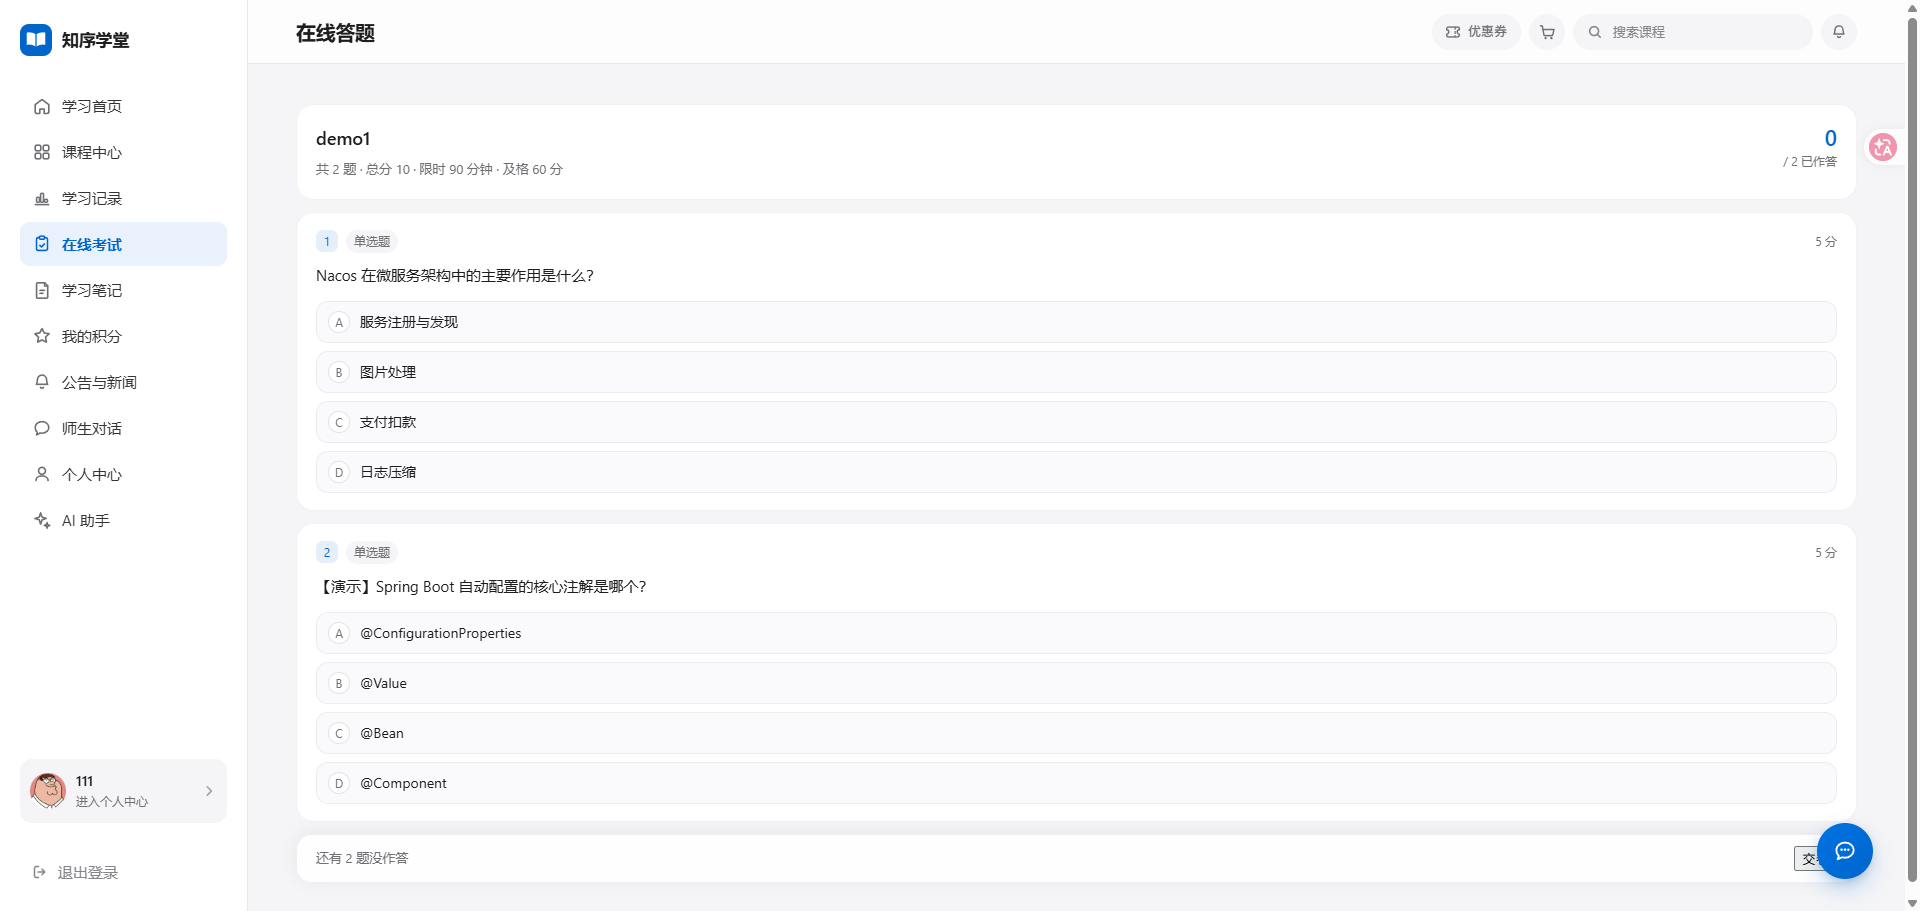
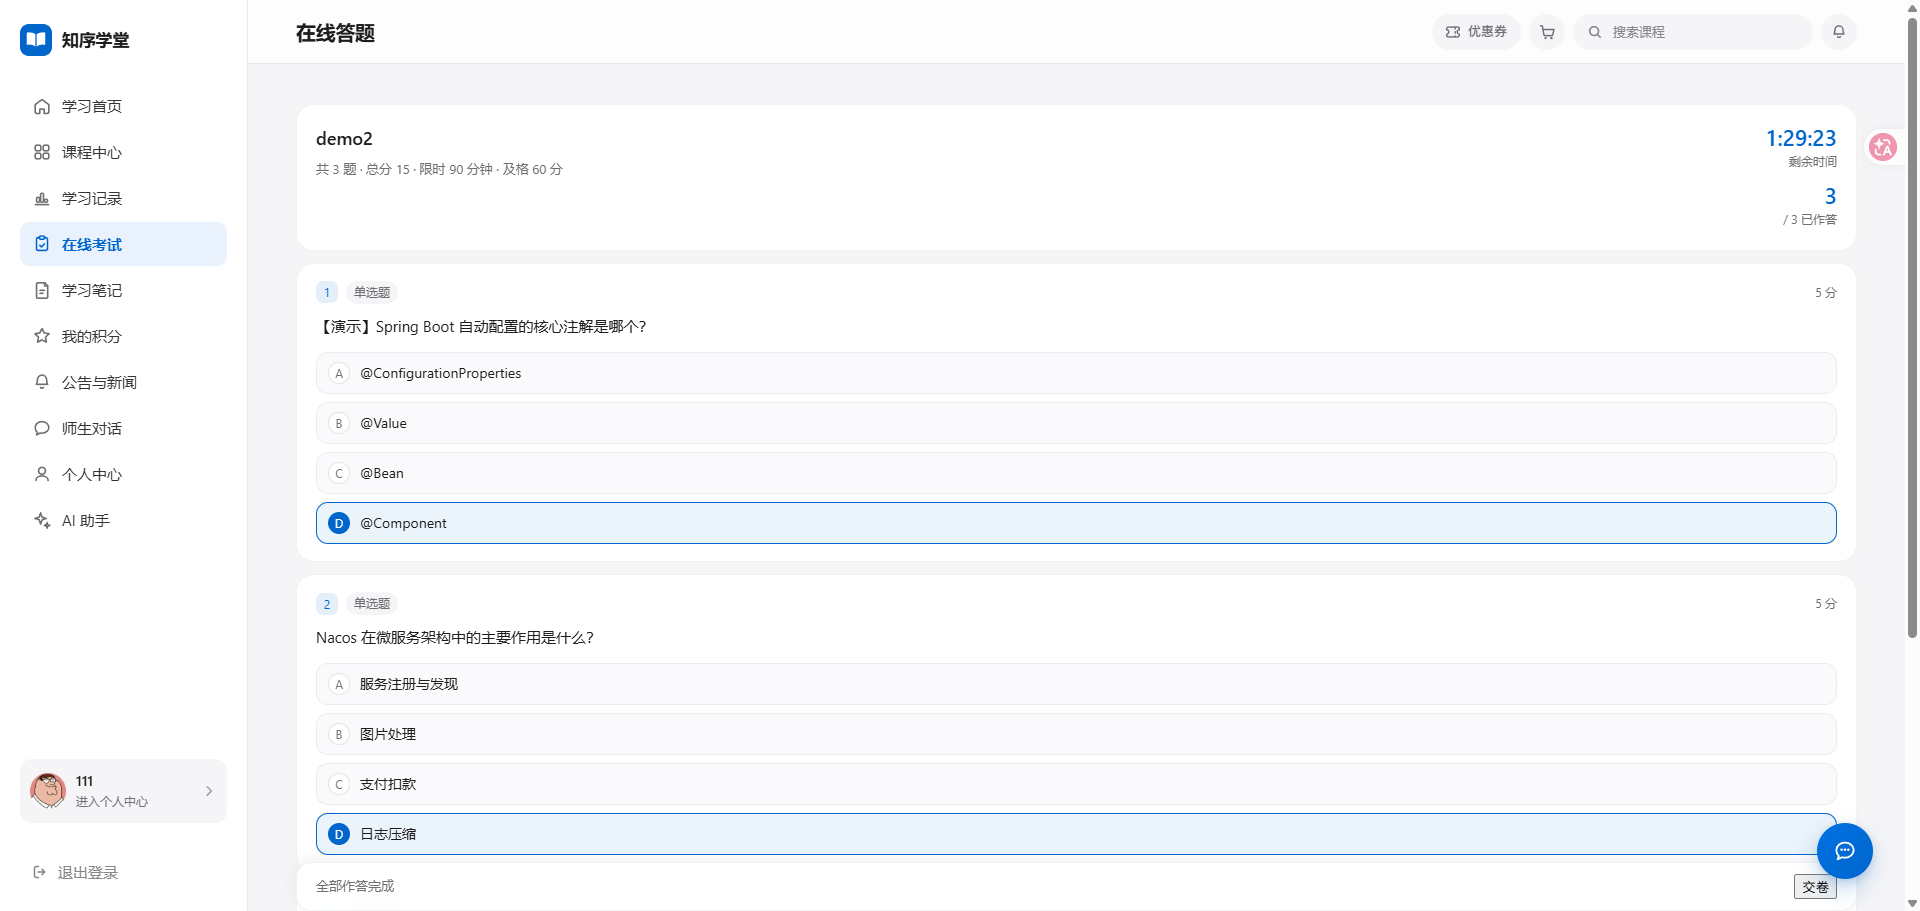
docs: 更新 student-exam 截图（含倒计时）+ 清理已过时的说明
- student-exam.png 换成拍到了倒计时的新图（demo2 · 3/3 已作答 · 右上角剩余时间 1:29:23）
- README 图注改为「右上角倒计时 + 已作答计数」，并补一句口径：
  倒计时截止 = min(开始作答时间 + 时长, 考试结束时间)，由服务端下发、到点自动交卷、窗口外不可进入
- docs/screenshots/demo/README.md 删掉「没有倒计时是正常的」这句已失效的说明（P38 已上线）

diff --git a/docs/screenshots/demo/README.md b/docs/screenshots/demo/README.md
@@ -13,7 +13,7 @@
 | `student-detail.png` | 课程详情（介绍 / 目录 / 讲师） | 1920×911 |
 | `student-learn.png` | 学习页（视频 + 右侧目录，露出 5 个页签） | 1920×911 |
 | `student-ai.png` | 右栏 AI 助教（流式回答 + 引用来源标注） | **405×753** ⚠ 局部裁切 |
-| `student-exam.png` | 在线答题页（卷头限时 + 已作答计数） | 1920×911 |
+| `student-exam.png` | 在线答题页（**右上角倒计时** + 已作答计数） | 1920×911 |
 | `student-exam-result.png` | 交卷后的成绩与逐题解析 | 1920×911 |
 | `student-notice.png` | 公告与新闻（未读 / 已读） | 1920×911 |
 | `teacher-dashboard.png` | 讲师工作台概览（左侧 10 项导航） | 1920×911 |
@@ -21,7 +21,7 @@
 | `teacher-marking.png` | 主观题批改（打分 + 评语） | 1920×911 |
 | `teacher-chat.png` | 师生对话（WebSocket 私信） | 1920×911 |
 
-> ℹ `student-exam.png` 里**没有倒计时是正常的** —— 倒计时功能两端都还没实现，见 `p38-exam-countdown-gap.md`。
+> ℹ 倒计时与考试时间窗口强制已于 P38 上线，`student-exam.png` 右上角就是剩余时间（见 `p38-exam-countdown-gap.md`）。
 
 ---
 

diff --git a/README.md b/README.md
@@ -36,11 +36,13 @@
 | --- | --- |
 | ![学习页](./docs/screenshots/demo/student-learn.png) | ![AI 助教](./docs/screenshots/demo/student-ai.png) |
 
-| 在线答题（卷头限时 + 已作答计数） | 交卷后的成绩与逐题解析 |
+| 在线答题（**右上角倒计时** + 已作答计数） | 交卷后的成绩与逐题解析 |
 | --- | --- |
 | ![在线答题](./docs/screenshots/demo/student-exam.png) | ![成绩与解析](./docs/screenshots/demo/student-exam-result.png) |
 
 > 判分只读**作答时冻结的快照**：交卷时保存题目与答案，之后讲师改题也不会影响已交卷的成绩。
+> 倒计时以 `min(开始作答时间 + 时长, 考试结束时间)` 为截止，**由服务端下发**（前端只用它显示，不自己算），
+> 到点自动交卷；不在考试时间窗口内则无法进入 —— 这张图右上角就是在走的剩余时间。
 
 **公告与新闻**（未读 / 已读）
 
